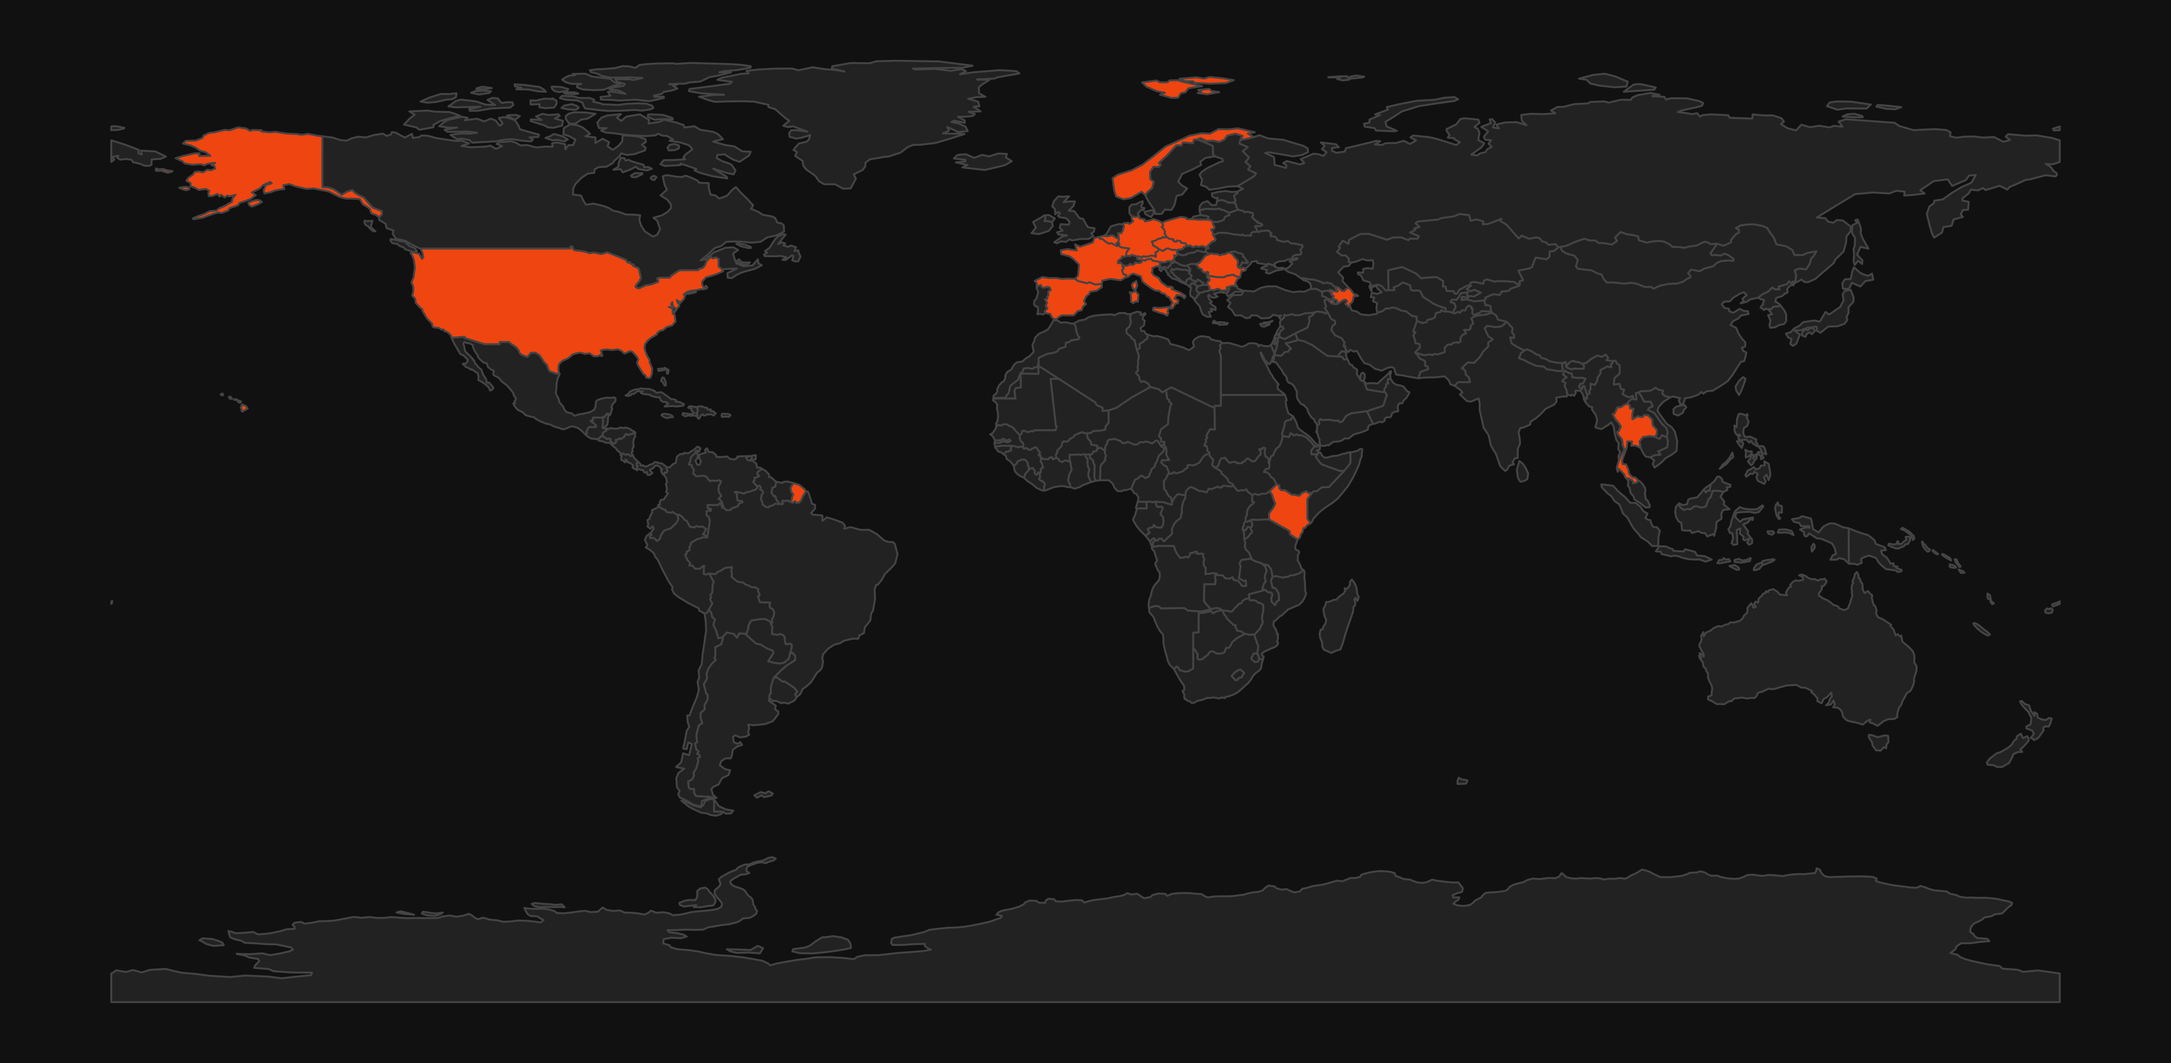
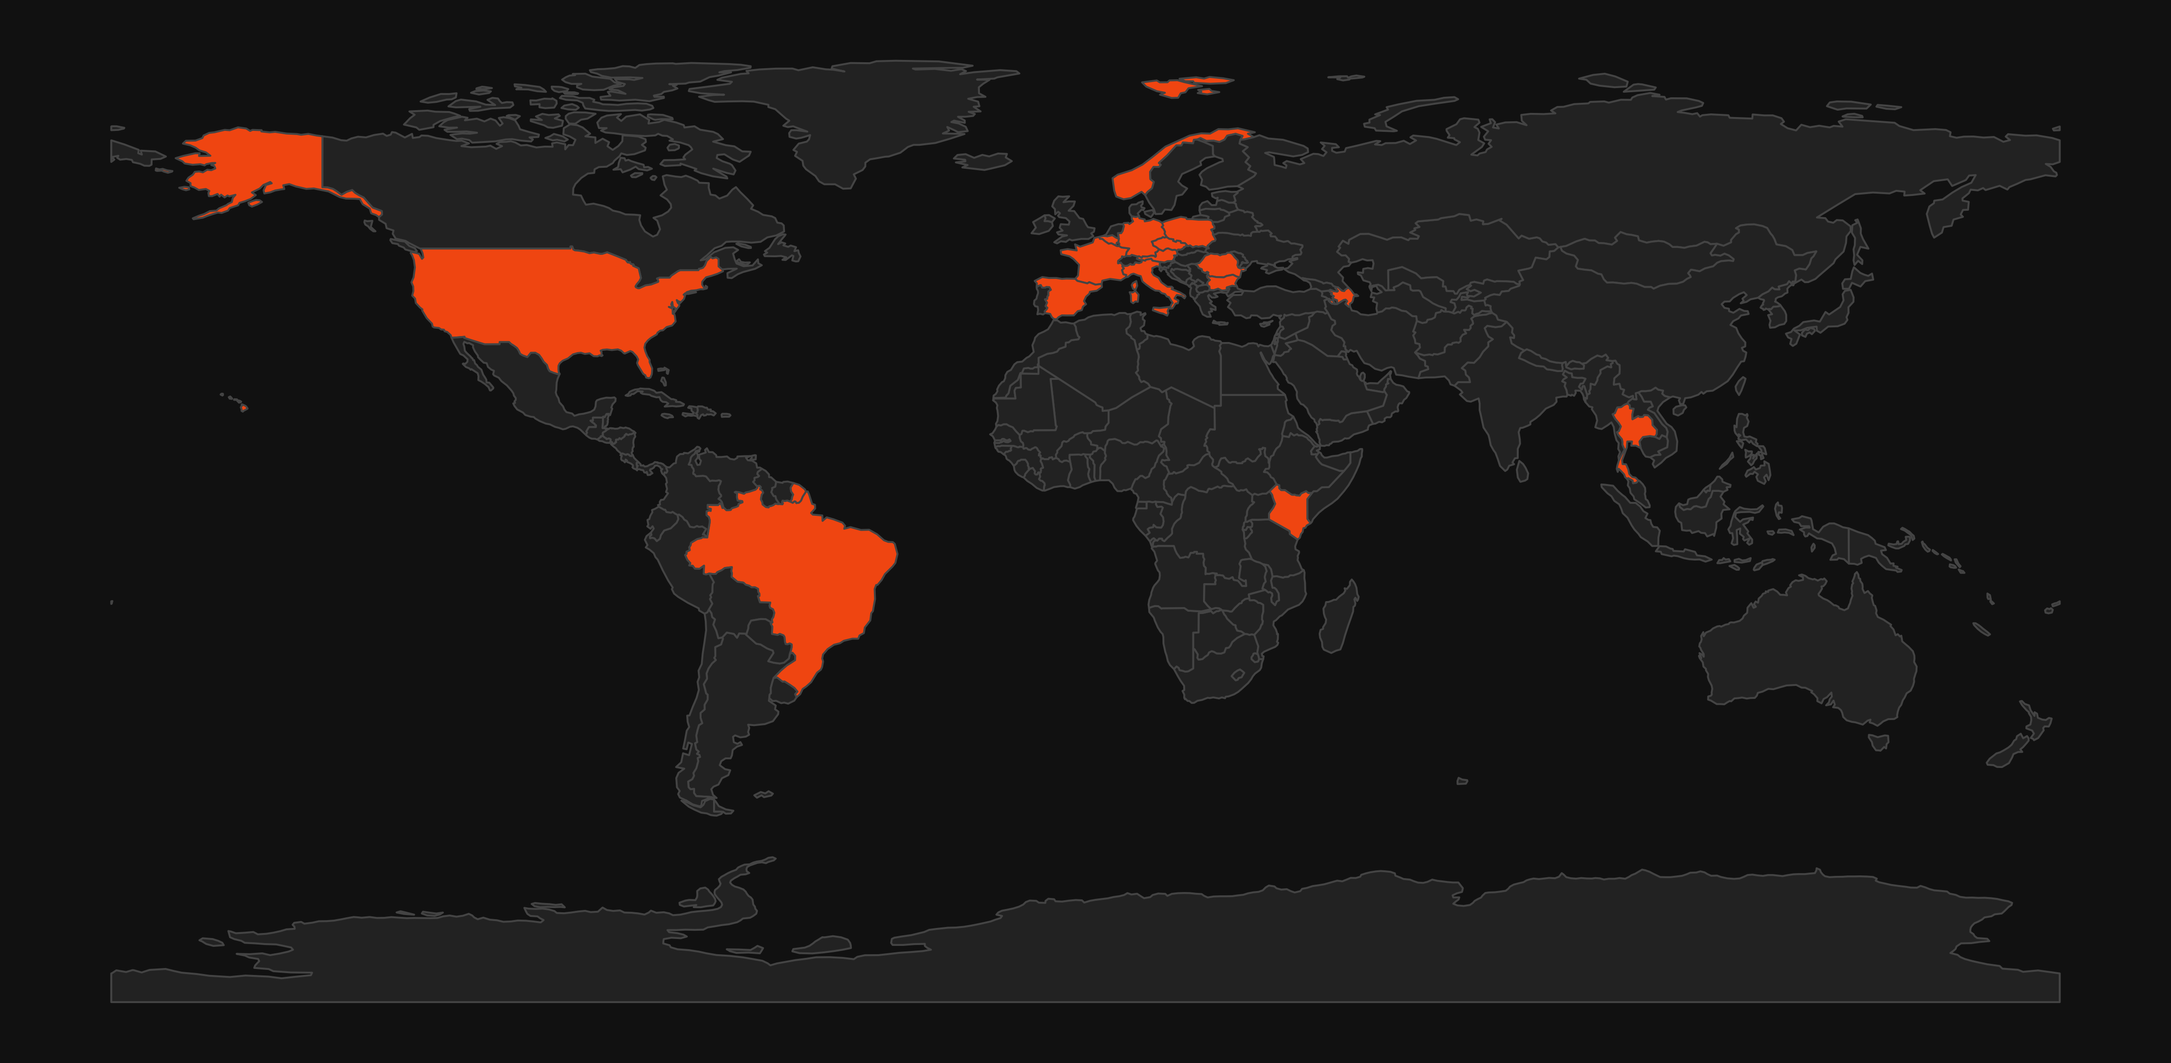
Update

Changed region(s): [[0.3121, 0.4683, 0.4369, 0.6557]]

diff --git a/Z3S Links/May_2026.md b/Z3S Links/May_2026.md
@@ -1,0 +1,90 @@
+# Not The Hidden Wiki
+
+## Links from Zaufana Trzecia Strona
+-----
+
+- New Linux 'Copy Fail' vulnerability enables root access on major distributions - [link](https://copy.fail/)
+- Pack2TheRoot (CVE-2026-41651): Cross-distro local privilege escalation vulnerability - [link](https://github.security.telekom.com/2026/04/pack2theroot-linux-local-privilege-escalation.html)
+- We found a stable Firefox identifier linking all your private Tor identities - [link](https://fingerprint.com/blog/firefox-tor-indexeddb-privacy-vulnerability/)
+- CanisterSprawl: pgserve compromised on npm: malicious versions harvest credentials and exfiltrate to a decentralized ICP canister - [link](https://www.stepsecurity.io/blog/pgserve-compromised-on-npm-malicious-versions-harvest-credentials)
+- LOLBins – analysis of MSBuild-based attack techniques - [link](https://asec.ahnlab.com/en/93290/)
+- The Gentlemen ransomware decryptor - [link](https://github.com/Bedrock-Safeguard/gentlemen-decryptor)
+- VECT: Ransomware by design, wiper by accident - [link](https://research.checkpoint.com/2026/vect-ransomware-by-design-wiper-by-accident/)
+- Inside Vidar (2026): From infection to memory execution via JPEG and TXT payloads - [link](https://www.pointwild.com/threat-intelligence/inside-vidar-2026-from-infection-to-memory-execution-via-jpeg-and-txt-payloads/)
+- “Chaos is a ladder”: Vidar’s recent rise to the top - [link](https://www.intrinsec.com/wp-content/uploads/2026/04/TLP_CLEAR-20260424-New_Vidar.pdf)
+- Jenkins honeypot reveals emerging botnet targeting online games - [link](https://www.darktrace.com/blog/darktrace-malware-analysis-jenkins-honeypot-reveals-emerging-botnet-targeting-online-games)
+- Crypto drainers as a converging threat: Insights into emerging hybrid attack ecosystems - [link](https://www.levelblue.com/blogs/spiderlabs-blog/crypto-drainers-as-a-converging-threat-insights-into-emerging-hybrid-attack-ecosystems)
+- Hold the phone! International revenue share fraud driven by fake CAPTCHAs - [link](https://www.infoblox.com/blog/threat-intelligence/hold-the-phone-international-revenue-share-fraud-driven-by-fake-captchas/)
+- Morpheus: A new spyware linked to IPS Intelligence - [link](https://osservatorionessuno.org/blog/2026/04/morpheus-a-new-spyware-linked-to-ips-intelligence/)
+- Boutique phishing kit Saiga 2FA hides behind ‘lorem ipsum’ metadata - [link](https://blog.barracuda.com/2026/04/28/threat-spotlight--boutique-phishing-kit-saiga-2fa)
+- Deep#Door stealer: Stealthy Python backdoor and credential stealer leveraging tunneling, multi-layer persistence, and in-memory surveillance capabilities - [link](https://www.securonix.com/blog/deepdoor-python-backdoor-and-credential-stealer/)
+- Firestarter backdoor infects Cisco firewall at a U.S. federal agency - [link](https://www.cisa.gov/news-events/analysis-reports/ar26-113a)
+- fast16: mystery ShadowBrokers reference reveals high-precision software sabotage 5 years before Stuxnet - [link](https://www.sentinelone.com/labs/fast16-mystery-shadowbrokers-reference-reveals-high-precision-software-sabotage-5-years-before-stuxnet/)
+- BlueNoroff uses ClickFix, fileless PowerShell, and AI-generated fake Zoom meetings to target Web3 sector - [link](https://arcticwolf.com/resources/blog/bluenoroff-uses-clickfix-fileless-powershell-and-ai-generated-zoom-meetings-to-target-web3-sector/)
+- Tall Tales. How Chinese actors use impersonation and stolen narratives to perpetuate digital transnational repression - [link](https://citizenlab.ca/research/how-chinese-actors-use-impersonation-and-stolen-narratives-to-perpetuate-digital-transnational-repression/)
+- Multi-stage malware delivery campaign using SEO poisoning and serverless infrastructure - [link](https://medium.com/@ireneusz.tarnowski/multi-stage-malware-delivery-campaign-using-seo-poisoning-and-serverless-infrastructure-34e05e551fa3)
+- Dirty Frag: Universal Linux LPE - [link](https://github.com/V4bel/dirtyfrag/tree/master)
+- Palo Alto PAN-OS Buffer Overflow Vulnerability (CVE-2026-0300) - [link](https://watchtowr.com/resources/rapid-reaction-palo-alto-pan-os-buffer-overflow-cve-2026-0300/)
+- New Cisco DoS flaw requires manual reboot to revive devices - [link](https://www.bleepingcomputer.com/news/security/new-cisco-dos-flaw-requires-manual-reboot-to-revive-devices/)
+- Critical Apache HTTP/2 flaw (CVE-2026-23918) enables DoS and potential RCE - [link](https://thehackernews.com/2026/05/critical-apache-http2-flaw-cve-2026.html?m=1)
+- ConsentFix v3: Analyzing a new criminal toolkit - [link](https://pushsecurity.com/blog/consentfix-v3-analyzing-a-new-toolkit/)
+- Breaking the code: Multi-stage ‘code of conduct’ phishing campaign leads to AiTM token compromise - [link](https://www.microsoft.com/en-us/security/blog/2026/05/04/breaking-the-code-multi-stage-code-of-conduct-phishing-campaign-leads-to-aitm-token-compromise/)
+- VENOMOUS#HELPER: Dual-RMM phishing campaign leveraging JWrapper-packaged SimpleHelp and ScreenConnect for silent remote access - [link](https://www.securonix.com/blog/venomous-helper-phishing-campaign/)
+- ClickFix campaign uses fake macOS utilities lures to deliver infostealers - [link](https://www.microsoft.com/en-us/security/blog/2026/05/06/clickfix-campaign-uses-fake-macos-utilities-lures-deliver-infostealers/)
+- Supply chain campaign targets SAP npm packages with credential-stealing malware - [link](https://www.wiz.io/blog/mini-shai-hulud-supply-chain-sap-npm)
+- 8.3M downloads compromised: Lightning & Intercom-Client infected in latest Shai-Hulud attack - [link](https://www.ox.security/blog/lightning-python-package-shai-hulud-supply-chain-attack/)
+- Mini Shai-Hulud spreads to Packagist: Malicious Intercom PHP package follows npm compromise - [link](https://socket.dev/blog/mini-shai-hulud-packagist-malicious-intercom-php-package-compromise)
+- TeamPCP-linked supply chain attack hits SAP CAP and Cloud MTA npm packages - [link](https://socket.dev/blog/sap-cap-npm-packages-supply-chain-attack)
+- Fake call logs, real payments: How CallPhantom tricks Android users - [link](https://www.welivesecurity.com/en/eset-research/fake-call-logs-real-payments-how-callphantom-tricks-android-users/)
+- TCLBANKER: Brazilian banking trojan spreading via WhatsApp and Outlook - [link](https://www.elastic.co/security-labs/tclbanker-brazilian-banking-trojan)
+- Malicious OpenClaw skill distributes Remcos RAT and GhostLoader - [link](https://www.zscaler.com/blogs/security-research/malicious-openclaw-skill-distributes-remcos-rat-and-ghostloader)
+- InstallFix and Claude Code: How fake install pages lead to real compromise - [link](https://www.trendmicro.com/en_us/research/26/e/installfix-and-claude-code.html)
+- Quasar Linux (QLNX) – A silent foothold in the supply chain: Inside a full-featured Linux RAT with rootkit, PAM backdoor, credential harvesting capabilities - [link](https://www.trendmicro.com/en_us/research/26/e/quasar-linux-qlnx-a-silent-foothold-in-the-software-supply-chain.html)
+- Unmasking a multi-stage loader: AutoIt abuse leading to Vidar stealer command-and-control communication - [link](https://www.levelblue.com/blogs/spiderlabs-blog/unmasking-a-multi-stage-loader-autoit-abuse-leading-to-vidar-stealer-command-and-control-communication)
+- Attackers adopt JavaScript runtime Bun to spread NWHStealer - [link](https://www.malwarebytes.com/blog/threat-intel/2026/05/attackers-adopt-javascript-runtime-bun-to-spread-nwhstealer)
+- A rigged game: ScarCruft compromises gaming platform in a supply-chain attack - [link](https://www.welivesecurity.com/en/eset-research/rigged-game-scarcruft-compromises-gaming-platform-supply-chain-attack/)
+- UAT-8302 and its box full of malware - [link](https://blog.talosintelligence.com/uat-8302/)
+- Operation GriefLure: Dissecting an APT campaign targeting Vietnam’s military telecom & Philippine healthcare - [link](https://www.seqrite.com/blog/operation-grieflure-dissecting-an-apt-campaign-targeting-vietnams-military-telecom-philippine-healthcare/)
+- Multi-stage malware delivery campaign using SEO poisoning and serverless infrastructure - [link](https://medium.com/@ireneusz.tarnowski/multi-stage-malware-delivery-campaign-using-seo-poisoning-and-serverless-infrastructure-34e05e551fa3)
+- Dirty Frag: Universal Linux LPE - [link](https://github.com/V4bel/dirtyfrag/tree/master)
+- Palo Alto PAN-OS Buffer Overflow Vulnerability (CVE-2026-0300) - [link](https://watchtowr.com/resources/rapid-reaction-palo-alto-pan-os-buffer-overflow-cve-2026-0300/)
+- New Cisco DoS flaw requires manual reboot to revive devices - [link](https://www.bleepingcomputer.com/news/security/new-cisco-dos-flaw-requires-manual-reboot-to-revive-devices/)
+- Critical Apache HTTP/2 flaw (CVE-2026-23918) enables DoS and potential RCE - [link](https://thehackernews.com/2026/05/critical-apache-http2-flaw-cve-2026.html?m=1)
+- ConsentFix v3: Analyzing a new criminal toolkit - [link](https://pushsecurity.com/blog/consentfix-v3-analyzing-a-new-toolkit/)
+- Breaking the code: Multi-stage ‘code of conduct’ phishing campaign leads to AiTM token compromise - [link](https://www.microsoft.com/en-us/security/blog/2026/05/04/breaking-the-code-multi-stage-code-of-conduct-phishing-campaign-leads-to-aitm-token-compromise/)
+- VENOMOUS#HELPER: Dual-RMM phishing campaign leveraging JWrapper-packaged SimpleHelp and ScreenConnect for silent remote access - [link](https://www.securonix.com/blog/venomous-helper-phishing-campaign/)
+- ClickFix campaign uses fake macOS utilities lures to deliver infostealers - [link](https://www.microsoft.com/en-us/security/blog/2026/05/06/clickfix-campaign-uses-fake-macos-utilities-lures-deliver-infostealers/)
+- Supply chain campaign targets SAP npm packages with credential-stealing malware - [link](https://www.wiz.io/blog/mini-shai-hulud-supply-chain-sap-npm)
+- 8.3M downloads compromised: Lightning & Intercom-Client infected in latest Shai-Hulud attack - [link](https://www.ox.security/blog/lightning-python-package-shai-hulud-supply-chain-attack/)
+- Mini Shai-Hulud spreads to Packagist: Malicious Intercom PHP package follows npm compromise - [link](https://socket.dev/blog/mini-shai-hulud-packagist-malicious-intercom-php-package-compromise)
+- TeamPCP-linked supply chain attack hits SAP CAP and Cloud MTA npm packages - [link](https://socket.dev/blog/sap-cap-npm-packages-supply-chain-attack)
+- Fake call logs, real payments: How CallPhantom tricks Android users - [link](https://www.welivesecurity.com/en/eset-research/fake-call-logs-real-payments-how-callphantom-tricks-android-users/)
+- TCLBANKER: Brazilian banking trojan spreading via WhatsApp and Outlook - [link](https://www.elastic.co/security-labs/tclbanker-brazilian-banking-trojan)
+- Malicious OpenClaw skill distributes Remcos RAT and GhostLoader - [link](https://www.zscaler.com/blogs/security-research/malicious-openclaw-skill-distributes-remcos-rat-and-ghostloader)
+- InstallFix and Claude Code: How fake install pages lead to real compromise - [link](https://www.trendmicro.com/en_us/research/26/e/installfix-and-claude-code.html)
+- Quasar Linux (QLNX) – A silent foothold in the supply chain: Inside a full-featured Linux RAT with rootkit, PAM backdoor, credential harvesting capabilities - [link](https://www.trendmicro.com/en_us/research/26/e/quasar-linux-qlnx-a-silent-foothold-in-the-software-supply-chain.html)
+- Unmasking a multi-stage loader: AutoIt abuse leading to Vidar stealer command-and-control communication - [link](https://www.levelblue.com/blogs/spiderlabs-blog/unmasking-a-multi-stage-loader-autoit-abuse-leading-to-vidar-stealer-command-and-control-communication)
+- Attackers adopt JavaScript runtime Bun to spread NWHStealer - [link](https://www.malwarebytes.com/blog/threat-intel/2026/05/attackers-adopt-javascript-runtime-bun-to-spread-nwhstealer)
+- A rigged game: ScarCruft compromises gaming platform in a supply-chain attack - [link](https://www.welivesecurity.com/en/eset-research/rigged-game-scarcruft-compromises-gaming-platform-supply-chain-attack/)
+- UAT-8302 and its box full of malware - [link](https://blog.talosintelligence.com/uat-8302/)
+- Operation GriefLure: Dissecting an APT campaign targeting Vietnam’s military telecom & Philippine healthcare - [link](https://www.seqrite.com/blog/operation-grieflure-dissecting-an-apt-campaign-targeting-vietnams-military-telecom-philippine-healthcare/)
+- May 2026 Patch Tuesday: 30 critical vulnerabilities among 130 CVEs - [link](https://www.crowdstrike.com/en-us/blog/patch-tuesday-analysis-may-2026/)
+- YellowKey Bitlocker bypass vulnerability - [link](https://github.com/Nightmare-Eclipse/YellowKey)
+- GreenPlasma Windows CTFMON arbitrary section creation elevation of privileges vulnerability - [link](https://github.com/Nightmare-Eclipse/GreenPlasma)
+- Fragnesia (CVE-2026-46300), a universal Linux local privilege escalation exploit - [link](https://github.com/v12-security/pocs/tree/main/fragnesia)
+- NGINX Rift: Achieving NGINX remote code execution via an 18-year-old vulnerability - [link](https://depthfirst.com/research/nginx-rift-achieving-nginx-rce-via-an-18-year-old-vulnerability)
+- Dead.Letter (CVE-2026-45185) How XBOW found an unauthenticated RCE on Exim - [link](https://xbow.com/blog/dead-letter-cve-2026-45185-xbow-found-rce-exim)
+- CursorJacking: Every Cursor user is vulnerable to API key theft by rogue extensions - [link](https://layerxsecurity.com/blog/cursorjacking-every-cursor-user-is-vulnerable-to-api-key-theft-by-rogue-extensions/)
+- Why 0.1 + 0.2 is not 0.3, or about floating-point numbers - [link](https://hackarcana.com/article/floating-friday-0.1-plus-0.2-is-not-0.3)
+- Pwn2Own Berlin 2026 - Day One Results - [link](https://www.zerodayinitiative.com/blog/2026/5/13/pwn2own-berlin-2026-day-one-results)
+- Pwn2Own Berlin 2026 - Day Two Results - [link](https://www.zerodayinitiative.com/blog/2026/5/15/pwn2own-berlin-2026-day-two-results)
+- Pwn2Own Berlin 2026: Day Three Results and Master of Pwn - [link](https://www.zerodayinitiative.com/blog/2026/5/16/pwn2own-berlin-2026-day-three-results-and-master-of-pwn)
+- Yarbo - NAT in my back yard - [link](https://github.com/Bin4ry/yarbo-nat-in-my-back-yard)
+- StealTok: 130k users compromised by data stealing TikTok video “downloaders” - [link](https://layerxsecurity.com/blog/stealtok-130k-users-compromised-by-data-stealing-tiktok-video-downloaders/)
+- Malware found in trending Hugging Face repository "Open-OSS/privacy-filter" - [link](https://www.hiddenlayer.com/research/malware-found-in-trending-hugging-face-repository-open-oss-privacy-filter)
+- DAEMON Tools software infected – supply chain attack ongoing since April 8, 2026 - [link](https://securelist.com/tr/daemon-tools-backdoor/119654/)
+- Shai-Hulud goes open source: Malware creators leak their own code to GitHub - [link](https://www.ox.security/blog/shai-hulud-open-source-malware-github/)
+- PCPJack: Cloud worm evicts TeamPCP and steals credentials at scale - [link](https://www.sentinelone.com/labs/cloud-worm-evicts-teampcp-and-steals-credentials-at-scale/)
+- Adversaries leverage AI for vulnerability exploitation, augmented operations, and initial access - [link](https://cloud.google.com/blog/topics/threat-intelligence/ai-vulnerability-exploitation-initial-access)
+- When IT support calls: Dissecting a ModeloRAT campaign from Teams to domain compromise - [link](https://www.rapid7.com/blog/post/tr-it-support-dissecting-modelorat-campaign-microsoft-teams-compromise/)
+- FrostyNeighbor: Fresh mischief and digital shenanigans - [link](https://www.welivesecurity.com/en/eset-research/frostyneighbor-fresh-mischief-digital-shenanigans/)

diff --git a/Ambassadors/People/josselin_poupeney.md b/Ambassadors/People/josselin_poupeney.md
@@ -1,0 +1,65 @@
+# Josselin Poupeney – NTHW Ambassador
+
+<p align="center">
+  <img src="https://raw.githubusercontent.com/notthehiddenwiki/NTHW/nthw/.github/ambassadors/Josselin_Poupeney.png">
+</p>
+
+## 🌍 Basic Information & Contact
+  - **Country:** Brazil 
+  - **Email:** [josspoupeney@gmail.com](mailto:josspoupeney@address.com)
+  - **LinkedIn:** [https://www.linkedin.com/in/josspoupeney-b8517b174/](https://www.linkedin.com/in/josspoupeney-b8517b174/)  
+  - **GitHub:** [https://github.com/josspo](https://github.com/josspo)  
+  - **Discord:** 5p1d4r 
+
+## 👤 Biography
+I'm Joss Poupeney a french penetration tester based in Brazil. I'm a self-taught hacker, I learned everything from amazing platforms such as Hack The Box, PortSwigger, and from awesome people sharing their knowledge online. Finding resources wasn't easy because I didn't know where to search, if I had the NTHW back then, it would have saved me so much time, which is why I now want to help the project by becoming an ambassador. 
+
+I've worked as a Security Engineer, Penetration Tester, and I'm currently a Cybersecurity Instructor at Evolve Security Academy. My interests are mostly towards offensive security, the problem-solving mindset it need is probably my favorite part. When I'm doing a CTF on Hack The Box or any platform, this is like I'm playing a new video game.
+
+## 🛠 Technical Competencies and Interests
+My main interests are Web security and Active Directory. I did extended research on AS-REP Roasting and wrote a blog post about it on Medium. I like practicing on platforms but also building my own labs (AD and web app) so I can see things from both, attacker and defender perspective. In web security, my favorite part is reconnaissance, taking the time to map a target manually and finding new subdomains.
+
+Recently like a lot of people in the field, I started diving into AI security, not only how to break AI systems but how to use AI as part of my workflow. I'm currently training Claude with custom skills to act as a bug bounty hunting partner.
+
+As a cybersecurity instructor, one of my biggest passions is giving back, especially to beginners. I have a lot of patience with people just starting out and I can breaking down complex topics into easy to understand.
+
+### Certifications
+- CWES
+- CRTP
+- CAP
+
+## 🚀 Planned Initiatives as NTHW Ambassador
+- **Mini-projects:** I'd love to make videos (series or standalone), Interviews of people in the field in videos format or blog format, contribute to open source projects
+- **Community:** Discord moderation, mentoring, answering questions  
+- **Content:** Blog, Courses (an all time goal for me), Labs  
+- **Events:** Conferences, Creating a Brazilian community for the NTHW and organizing meetups
+
+## 🤝 Available for
+- [x] Community support  
+- [ ] Social Media  
+- [x] Testing  
+- [x] Writing tutorials  
+- [x] Mentoring  
+- [ ] Presentations and webinars  
+- [x] Event organization  
+- [x] Content creation  
+
+## 📚 Language Proficiency
+- **French:** Native
+- **English:** Billingual
+- **Portuguese (Brazil):** Billingual 
+- **Spanish:** Basic understanding 
+
+## 🎨 Additional Skills
+- Technical Writing
+- Video Editing (beginner, enthusiast)
+
+## 🤝 How I Can Help the Community
+
+I plan to share any resources I find valuable to the NTHW project, being active with the community helping those who needs and mentoring newcomers.
+
+---
+
+**Ambassador status:** ✅ Active  
+*This profile was created: [17.05.2026]*  
+*Last updated: [17.05.2026]*

diff --git a/Ambassadors/README.md b/Ambassadors/README.md
@@ -96,6 +96,7 @@ Below you will find the people who are **ambassadors** for **Not The Hidden Wiki
 * [Kacper Czech](https://github.com/notthehiddenwiki/NTHW/blob/nthw/Ambassadors/People/kacper_czech.md) [Poland]
 * [Maharram Maharramov](https://github.com/notthehiddenwiki/NTHW/blob/nthw/Ambassadors/People/maharram_maharramov.md) [Poland / Azerbaijan]
 * [Nigar Abasli](https://github.com/notthehiddenwiki/NTHW/blob/nthw/Ambassadors/People/nigar_abasli.md) [Azerbaijan]
+* [Josselin Poupeney](https://github.com/notthehiddenwiki/NTHW/blob/nthw/Ambassadors/People/josselin_poupeney.md) [Brazil]
 
 ## Local Communities
 

diff --git a/README.md b/README.md
@@ -4,7 +4,7 @@
   <img src="https://raw.githubusercontent.com/notthehiddenwiki/NTHW/nthw/.github/banner.png">
 </p>
 
-**There are already 4813 links on our wiki!**
+**There are already 4900 links on our wiki!**
 
 💥 Intro
 -----
